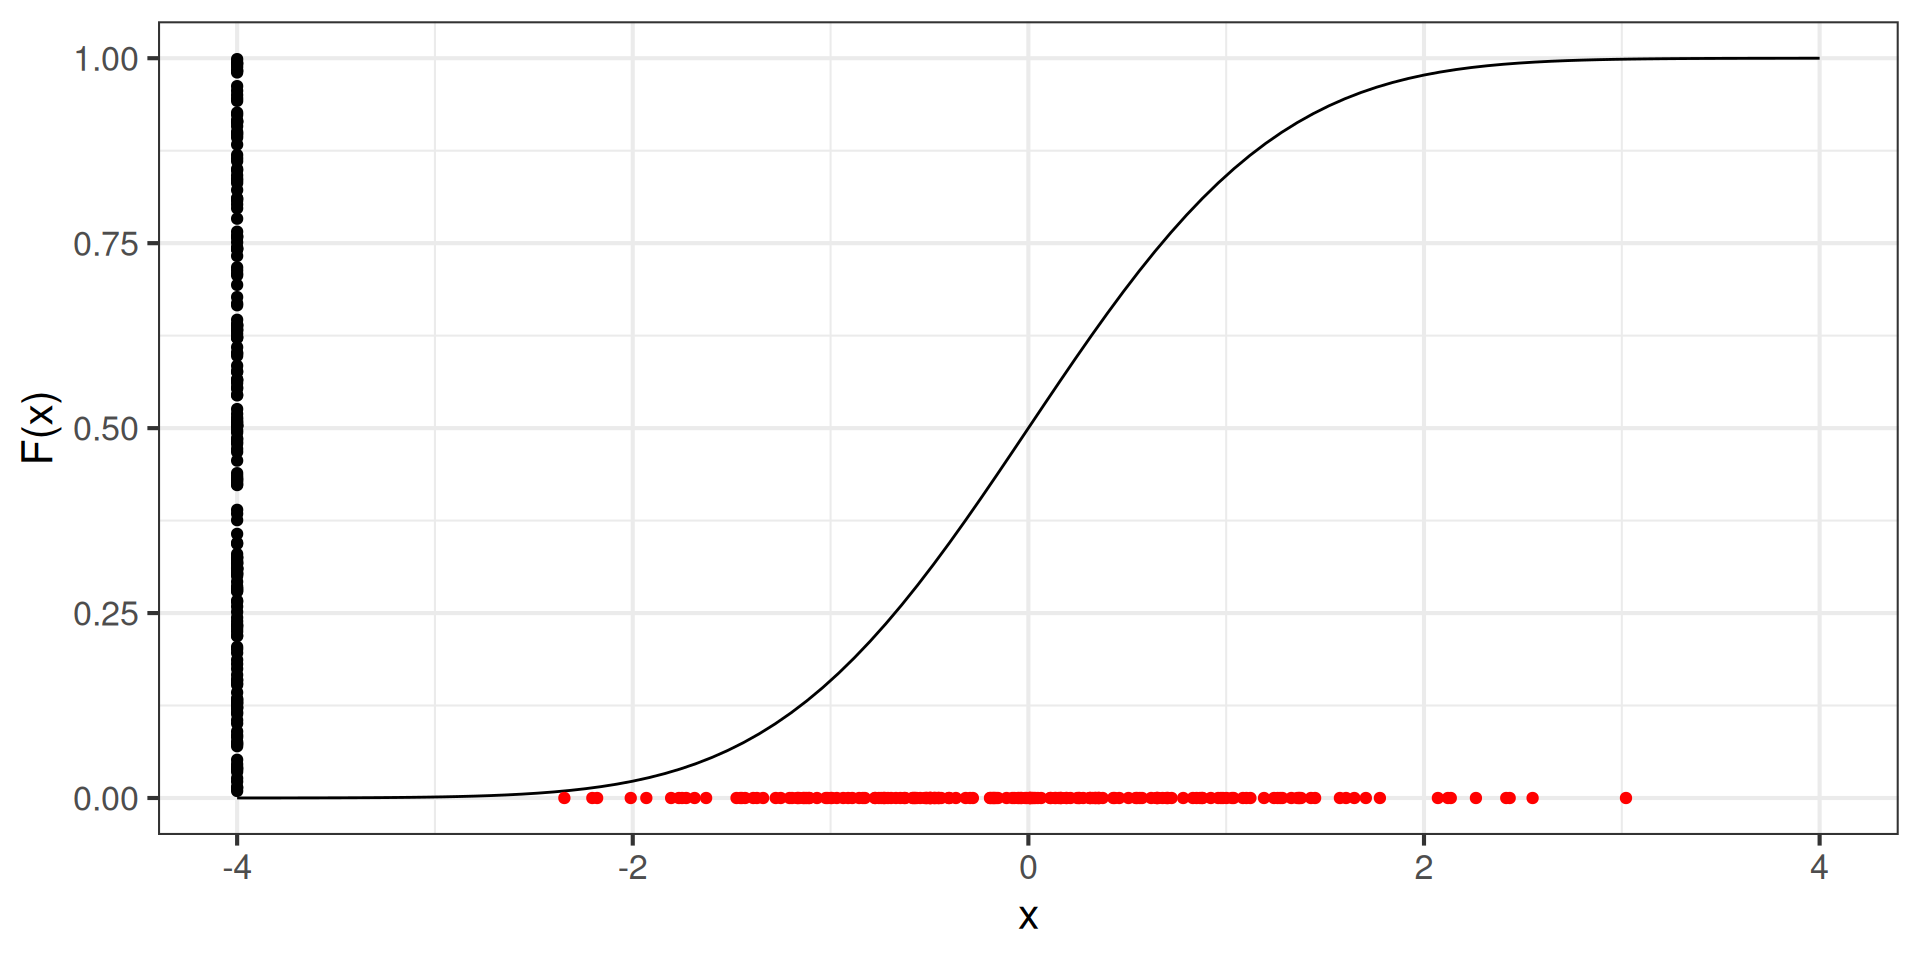
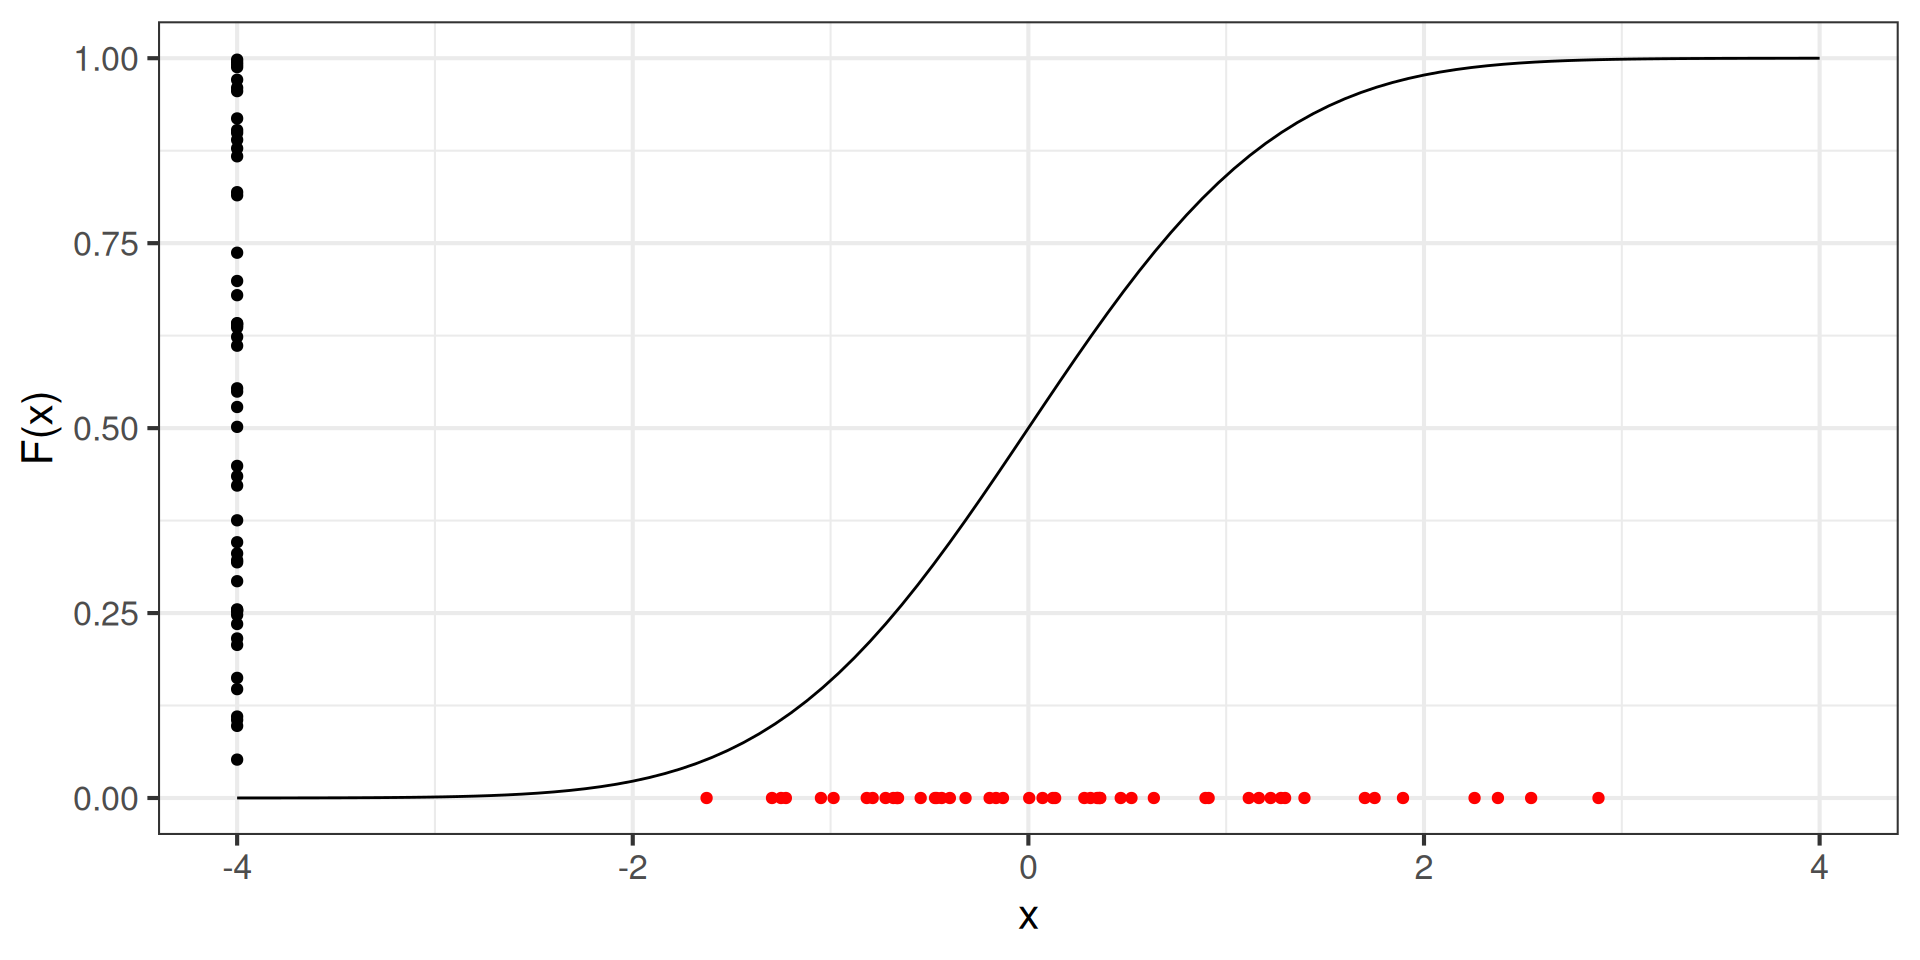
aula 3

diff --git a/slides/aula3/slides.html b/slides/aula3/slides.html
@@ -391,7 +391,7 @@ Leo Bastos
 \\ 0  &amp; \mbox{c.c}. \\
 \end{array}\right.\]</span> onde <span class="math inline">\(\alpha&gt;0\)</span> e <span class="math inline">\(\beta&gt;0\)</span>.</p>
 <div class="fragment">
-<p><span class="math display">\[\mathbb{E}(X) = \int_0^\infty x \theta e^{-x\theta} dx = \cdots = \theta\]</span></p>
+<p><span class="math display">\[\mathbb{E}(X) = \int_0^1 x  f_X(x) dx = \cdots = \frac{\alpha}{\alpha + \beta}\]</span></p>
 </div>
 </section>
 <section id="distribuição-beta-1" class="slide level2">
@@ -407,13 +407,13 @@ Leo Bastos
 <p>Se <span class="math inline">\(g(X) = a X + b\)</span>, então podemos partir da distribuição conjunta:</p>
 </div>
 <div class="fragment">
-<p><span class="math display">\[F_Y(y) = \mathbb{P}(Y \leq y) = \mathbb{P}\left(aX + b \leq  y\right) \\ =  \mathbb{P}\left(X \leq  \frac{y-b}{a}\right) = F_X\left(X \leq  \frac{y-b}{a}\right)\]</span></p>
+<p><span class="math display">\[F_Y(y) = \mathbb{P}(Y \leq y) = \mathbb{P}\left(aX + b \leq  y\right) \\ =  \mathbb{P}\left(X \leq  \frac{y-b}{a}\right) = F_X\left(\frac{y-b}{a}\right)\]</span></p>
 </div>
 </section>
 <section id="transformações-de-variáveis-aleatórias-1" class="slide level2">
 <h2>Transformações de variáveis aleatórias</h2>
 <p>Portanto, para <span class="math inline">\(Y = aX + b\)</span>,</p>
-<p><span class="math display">\[F_Y(y) =  F_X\left(X \leq  \frac{y-b}{a}\right)\]</span></p>
+<p><span class="math display">\[F_Y(y) =  F_X\left(\frac{y-b}{a}\right)\]</span></p>
 <div class="fragment">
 <p>E consequentemente,</p>
 <p><span class="math display">\[f_Y(y) = \frac{d}{dy} F_Y(y) = \frac{d}{dy} F_X\left(\frac{y-b}{a}\right) = \frac{1}{a} f_X\left(\frac{y-b}{a}\right)\]</span></p>
@@ -491,14 +491,25 @@ F_U(u)  &amp; = &amp; \mathbb{P}(U \leq u) = \mathbb{P}(F_X(X) \leq u) \\
 <img data-src="slides_files/figure-revealjs/qnorm-1.png" width="960" class="r-stretch"></section>
 <section id="exemplo-1" class="slide level2">
 <h2>Exemplo</h2>
+<p><span class="math inline">\(n = 50\)</span></p>
 
-<img data-src="slides_files/figure-revealjs/qnorm.hist-1.png" width="960" class="r-stretch"></section>
+<img data-src="slides_files/figure-revealjs/qnorm.hist.50-1.png" width="960" class="r-stretch"></section>
+<section id="exemplo-2" class="slide level2">
+<h2>Exemplo</h2>
+<p><span class="math inline">\(n = 100\)</span></p>
+
+<img data-src="slides_files/figure-revealjs/qnorm.hist.100-1.png" width="960" class="r-stretch"></section>
+<section id="exemplo-3" class="slide level2">
+<h2>Exemplo</h2>
+<p><span class="math inline">\(n = 1000\)</span></p>
+
+<img data-src="slides_files/figure-revealjs/qnorm.hist.1000-1.png" width="960" class="r-stretch"></section>
 <section id="transformações-de-variáveis-aleatórias-6" class="slide level2">
 <h2>Transformações de variáveis aleatórias</h2>
 <p>Seja <span class="math inline">\(X\)</span> uma variável aleatŕia contínua com densidade <span class="math inline">\(f_X\)</span> e seja <span class="math inline">\(Y=g(X)\)</span> onde <span class="math inline">\(g\)</span> é diferenciável e estritamente monotônica em um intervalo <span class="math inline">\(I\)</span>. E suponha que <span class="math inline">\(f_X(x) = 0\)</span> se <span class="math inline">\(x\)</span> não pertença a <span class="math inline">\(I\)</span>. Então <span class="math inline">\(Y\)</span> tem a seguinte densidade</p>
 <p><span class="math display">\[f_Y(y) = f_X(g^{-1}(y)) \left| \frac{d}{dy} g^{-1}(y)\right|\]</span></p>
 </section>
-<section id="exemplo-2" class="slide level2">
+<section id="exemplo-4" class="slide level2">
 <h2>Exemplo</h2>
 <p>Seja <span class="math inline">\(X \sim N(\mu, \sigma^2)\)</span> e <span class="math inline">\(Y = e^X\)</span>. Qual a distribuição de <span class="math inline">\(Y\)</span>?</p>
 <div class="fragment">
@@ -577,7 +588,7 @@ f_Y(y) &amp; = &amp; f_X(g^{-1}(y)) \left| \frac{d}{dy} g^{-1}(y)\right| \\
 \right.\]</span></p>
 </div>
 </section>
-<section id="exemplo-3" class="slide level2">
+<section id="exemplo-5" class="slide level2">
 <h2>Exemplo</h2>
 <p>Seja <span class="math inline">\(f_{X,Y}(x,y)\)</span> abaixo</p>
 <table class="caption-top">
@@ -617,7 +628,7 @@ f_Y(y) &amp; = &amp; f_X(g^{-1}(y)) \left| \frac{d}{dy} g^{-1}(y)\right| \\
 <p>Se a distribuição conjunta de <span class="math inline">\((X,Y)\)</span> é dada por <span class="math inline">\(f_{X,Y}\)</span>, dizemos que <span class="math inline">\(X \perp Y\)</span> se, e somente se, <span class="math display">\[f_{X,Y}(x,y) = f_X(x) f_Y(y)\]</span></p>
 </div>
 </section>
-<section id="exemplo-4" class="slide level2">
+<section id="exemplo-6" class="slide level2">
 <h2>Exemplo</h2>
 <p>No exemplo anterior, vimos que <span class="math inline">\(f_{X,Y}(x,y)\)</span> é dada por</p>
 <table class="caption-top">
@@ -662,6 +673,18 @@ f_Y(y) &amp; = &amp; f_X(g^{-1}(y)) \left| \frac{d}{dy} g^{-1}(y)\right| \\
 <!-- $X_1, X_2, \ldots, X_n$ é chamada de amostra aleatória de tamanho $n$ da distribuição  $F$. -->
 </div>
 </section>
+<section id="exemplo-7" class="slide level2">
+<h2>Exemplo</h2>
+<p>Seja <span class="math inline">\(X_i \sim Exp(\lambda)\)</span>, <span class="math inline">\(i=1,2,\ldots,n\)</span> e <span class="math inline">\(X_i \perp X_j\)</span>, <span class="math inline">\(\forall i \neq j\)</span>.</p>
+<p>Escreva a distribuição conjunta <span class="math inline">\(f_{X_1, X_2, \ldots, X_n}\)</span>.</p>
+<div class="fragment">
+<p><span class="math display">\[\begin{eqnarray}
+f_{X_1, X_2, \ldots, X_n}(x_1, x_2, \ldots, x_n) &amp; = &amp; \prod_{i=1}^n f_{X_i}(x_i) \\
+&amp; = &amp; \prod_{i=1}^n \lambda e^{\lambda x_i} \\
+&amp; = &amp; \lambda^n e^{\lambda \sum_{i=1}^n x_i}
+\end{eqnarray}\]</span></p>
+</div>
+</section>
 <section id="distribuições-condicionais" class="slide level2">
 <h2>Distribuições condicionais</h2>
 <p>Se <span class="math inline">\((X,Y)\)</span> tem distribuição conjunta <span class="math inline">\(f_{X,Y}\)</span>, a distribuição condicional de <span class="math inline">\(X\mid Y = y\)</span> é definida por <span class="math display">\[f_{X \mid Y} (x \mid y) = \frac{f_{X,Y}(x, y)}{f_Y(y)}\]</span></p>
@@ -680,17 +703,98 @@ f_Y(y) &amp; = &amp; f_X(g^{-1}(y)) \left| \frac{d}{dy} g^{-1}(y)\right| \\
 <p>Defindo a lei da probabilidade total para variáveis aleatórias.</p>
 </div>
 </section>
+<section id="exemplo-discreto" class="slide level2">
+<h2>Exemplo (discreto)</h2>
+<p>No exemplo (discreto), calcule <span class="math inline">\(f_{X \mid Y=0}(x \mid Y=0)\)</span></p>
+<table class="caption-top">
+<thead>
+<tr class="header">
+<th></th>
+<th style="text-align: center;"><span class="math inline">\(Y=0\)</span></th>
+<th style="text-align: center;"><span class="math inline">\(Y=1\)</span></th>
+<th style="text-align: center;"></th>
+</tr>
+</thead>
+<tbody>
+<tr class="odd">
+<td><span class="math inline">\(X=0\)</span></td>
+<td style="text-align: center;">3/9</td>
+<td style="text-align: center;">1/9</td>
+<td style="text-align: center;">4/9</td>
+</tr>
+<tr class="even">
+<td><span class="math inline">\(X=1\)</span></td>
+<td style="text-align: center;">3/9</td>
+<td style="text-align: center;">2/9</td>
+<td style="text-align: center;">5/9</td>
+</tr>
+<tr class="odd">
+<td></td>
+<td style="text-align: center;">6/9</td>
+<td style="text-align: center;">3/9</td>
+<td style="text-align: center;"></td>
+</tr>
+</tbody>
+</table>
+<div class="fragment">
+<p><span class="math display">\[f_{X|Y=0}(x \mid Y=0) = \frac{ f_{X,Y=0}(x, Y=0)}{f_Y(0)} = \left\{
+\begin{array}{ll}
+\frac{3/9}{6/9} = 1/2, &amp; x=0, \\
+\frac{3/9}{6/9} = 1/2, &amp; x=1
+\end{array}\right.\]</span></p>
+</div>
+</section>
+<section id="exemplo-contínuo" class="slide level2 scrollable">
+<h2>Exemplo (contínuo)</h2>
+<p>Suponha que <span class="math inline">\(X | Y \sim Poisson(Y)\)</span> e <span class="math inline">\(Y \sim Exp(\lambda)\)</span>. Encontre a conjunta <span class="math inline">\(f_{X,Y}\)</span> e a marginal de <span class="math inline">\(X\)</span>, <span class="math inline">\(f_X\)</span>.</p>
+<div class="fragment">
+<p><span class="math display">\[f_{X,Y}(x,y) = f_{X|Y}(x) f_Y(y) = \frac{y^x}{x!}e^{-y} \times \lambda e^{-\lambda y} \\
+= \frac{\lambda y^x}{x!}e^{-y(1+\lambda)}, \quad y&gt;0, \, x=0,1,2,\ldots\]</span></p>
+</div>
+<div class="fragment">
+<p><span class="math display">\[f_X(x) = \int_0^{\infty} f_{X,Y}(x,y) dy = \int_0^{\infty} \frac{\lambda y^x}{x!}e^{-y(1+\lambda)} dy \]</span></p>
+</div>
+<div class="fragment">
+<p><span class="math display">\[ = \frac{\lambda}{x!}\int_0^{\infty} y^{x+1-1} e^{-y(1+\lambda)} dy \]</span></p>
+</div>
+<div class="fragment">
+<p><span class="math display">\[ = \frac{\lambda}{x!} \frac{\Gamma(x+1)}{(1+\lambda)^{x+1}} = \frac{\lambda}{(1+\lambda)^{x+1}}, \, x=0,1,2\ldots \]</span></p>
+</div>
+</section>
 <section id="teorema-de-bayes" class="slide level2">
 <h2>Teorema de Bayes</h2>
 <p>Suponha que conhecemos a distribuição conjunta <span class="math inline">\(f_{X \mid Y}\)</span> e a distribuição marginal <span class="math inline">\(f_Y\)</span>, então a distribuição condicional <span class="math inline">\(Y\)</span> dado <span class="math inline">\(X\)</span> pode ser calculada da seguinte forma <span class="math display">\[\begin{equation}
 f_{Y\mid X}( y \mid x) = \frac{ f_{X \mid Y}(x \mid y) f_Y(y)}{ \int f_{X \mid Y}(x \mid y) f_Y(y) dy}
 \end{equation}\]</span></p>
 
+<div class="fragment">
+<p>As vezes é conveniente escrever,</p>
+<p><span class="math display">\[f_{Y\mid X}( y \mid x) \propto f_{X \mid Y}(x \mid y) f_Y(y)\]</span></p>
+</div>
 <aside><div>
 <p>Se <span class="math inline">\(Y\)</span> for discreta, a integral dá lugar a um somatório.</p>
 </div></aside></section>
-<section id="valor-esperado-variância-função-geradora-de-momentos" class="slide level2">
-<h2>Valor esperado, variância, função geradora de momentos</h2>
+<section id="exemplo-8" class="slide level2 scrollable">
+<h2>Exemplo</h2>
+<p>No exemplo, Poisson-exponencial, conhecemos a distribuição de <span class="math inline">\(X\mid Y\)</span> e de <span class="math inline">\(Y\)</span>, encontre a distribuição de <span class="math inline">\(Y\mid X=x\)</span>.</p>
+<div class="fragment">
+<p>Como a distribuição de <span class="math inline">\(X\)</span> já foi calculada, <span class="math inline">\(f_{Y|X=x}(y)\)</span> é dada por</p>
+<p><span class="math display">\[ f_{Y \mid X = x}(y) = \frac{f_{X|Y=y}(x\mid y) f_Y(y)}{f_{X}(x)} \\
+=  \frac{\frac{y^x}{x!}e^{-y} \times \lambda e^{-\lambda y}}{\frac{\lambda}{(1+\lambda)^{x+1}}} \]</span></p>
+</div>
+<div class="fragment">
+<p><span class="math display">\[= \frac{(1+\lambda)^{x+1}}{x!} y^{x}e^{-y(1+\lambda)}, \, y&gt;0\]</span></p>
+</div>
+<div class="fragment">
+<p><span class="math inline">\(Y \mid X=x \sim Gamma(x+1, 1+\lambda)\)</span></p>
+</div>
+</section>
+<section id="proxima-semana" class="slide level2">
+<h2>Proxima semana</h2>
+<ul>
+<li>Valor esperado, desigualdades, teoremas limite</li>
+<li>Lista 1</li>
+</ul>
 <div class="quarto-auto-generated-content">
 <p><img src="../../impa-tech-h.png" class="slide-logo"></p>
 <div class="footer footer-default">

diff --git a/listas/exercicios3.md b/listas/exercicios3.md
@@ -1,0 +1,7 @@
+## Exercícios sugeridos (Aula 3)
+
+Wasserman Cap. 2: 11, 16, 17
+
+Rice Cap. 3: 1, 14, 18, 20, 24
+
+
